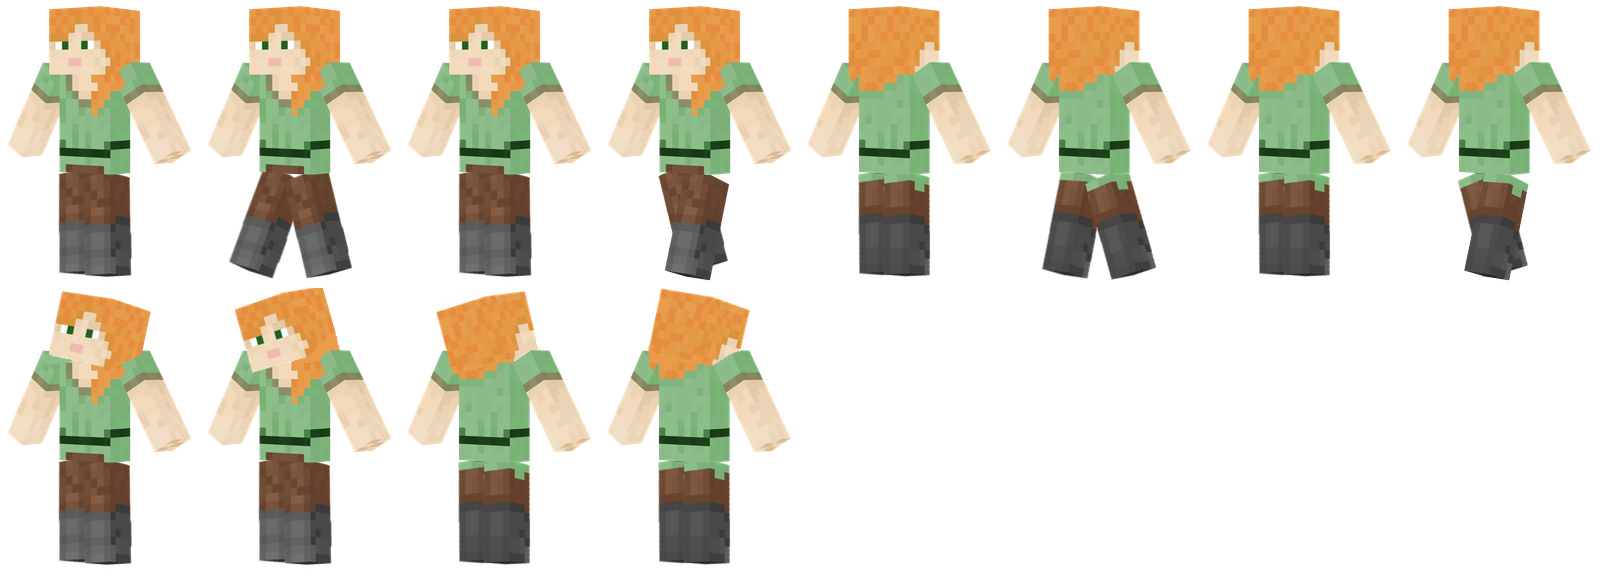
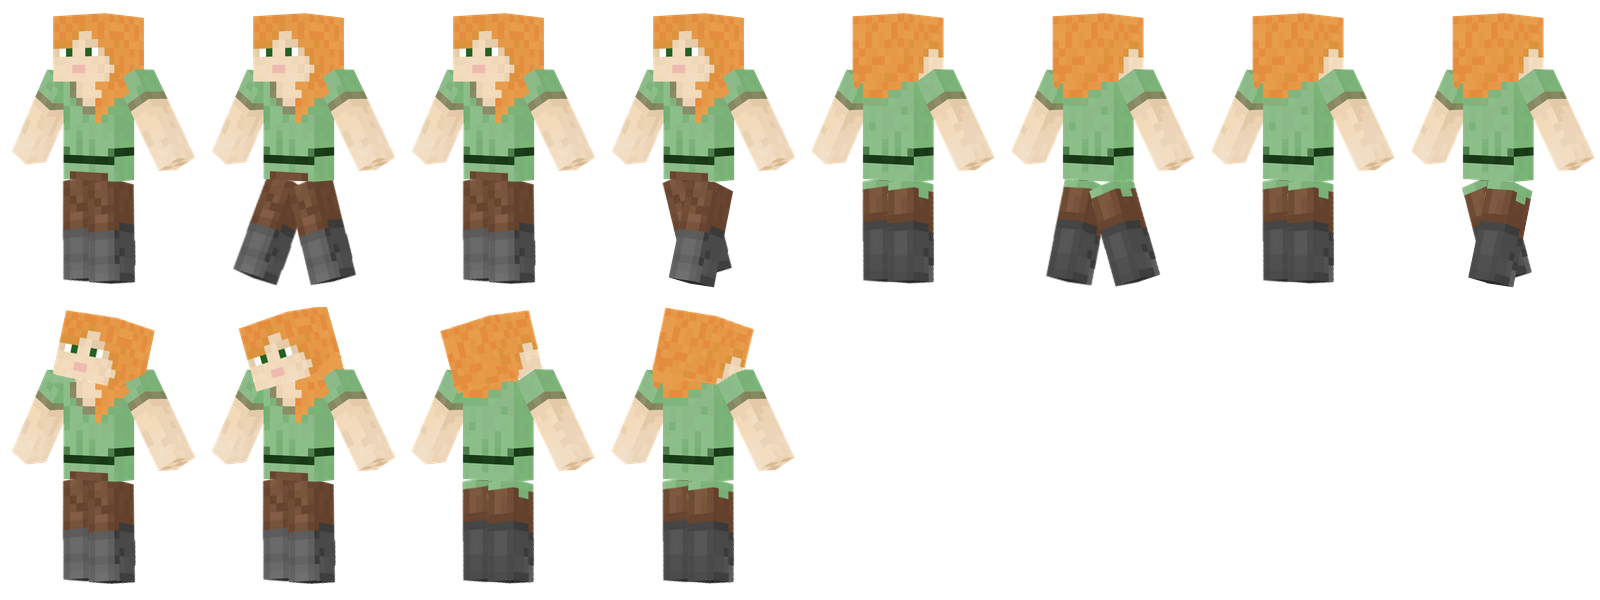
tune sprite positions

diff --git a/src/character/zombie.ts b/src/character/zombie.ts
@@ -19,7 +19,7 @@ export default class Zombie implements Character {
     }
 
     static preload(scene: Phaser.Scene) {
-        scene.load.spritesheet('zombie', Textures.zombieSprite, { frameWidth: 218, frameHeight: 288 });
+        scene.load.spritesheet('zombie', Textures.zombieSprite, { frameWidth: 220, frameHeight: 300 });
     }
     
     init(initX: number, initY: number) {

diff --git a/src/character/player.ts b/src/character/player.ts
@@ -22,7 +22,7 @@ export default class Player implements Character {
     }
 
     preload() {
-        this.scene.load.spritesheet('player', Textures.alexSprite, { frameWidth: 200, frameHeight: 288 });
+        this.scene.load.spritesheet('player', Textures.alexSprite, { frameWidth: 200, frameHeight: 300 });
     }
 
     init(initX: number, initY: number) {
